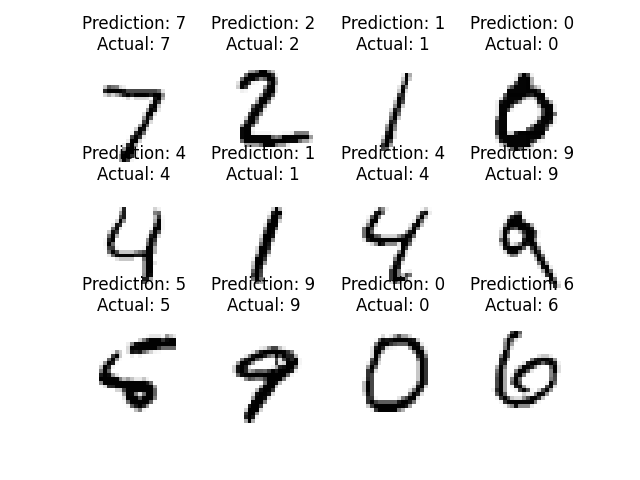
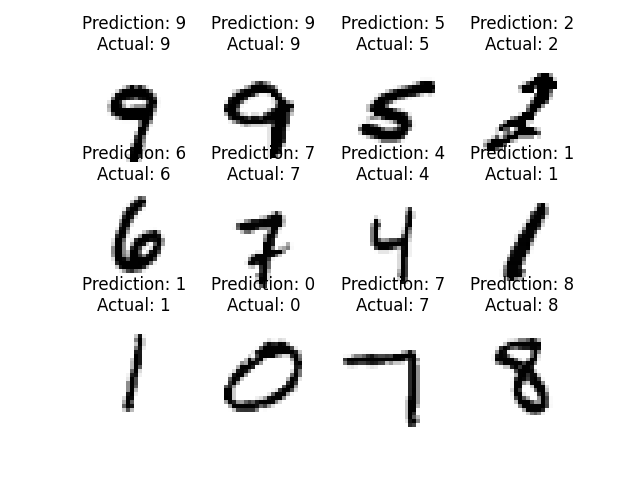
Made digits plot randomly select examples

diff --git a/src/digits-plot.py b/src/digits-plot.py
@@ -11,8 +11,11 @@ def main():
     # Import and sample the data.
     print("Importing data...")
     (train_images, train_labels), (test_images, test_labels) = mnist.load_data()
-    images = test_images[:12]
-    labels = test_labels[:12]
+    sample = np.random.choice(
+        np.arange(0, test_labels.shape[0]), size=12, replace=False
+    )
+    images = test_images[sample]
+    labels = test_labels[sample]
 
     # Predict the letters using the model.
     print("Loading model...")
